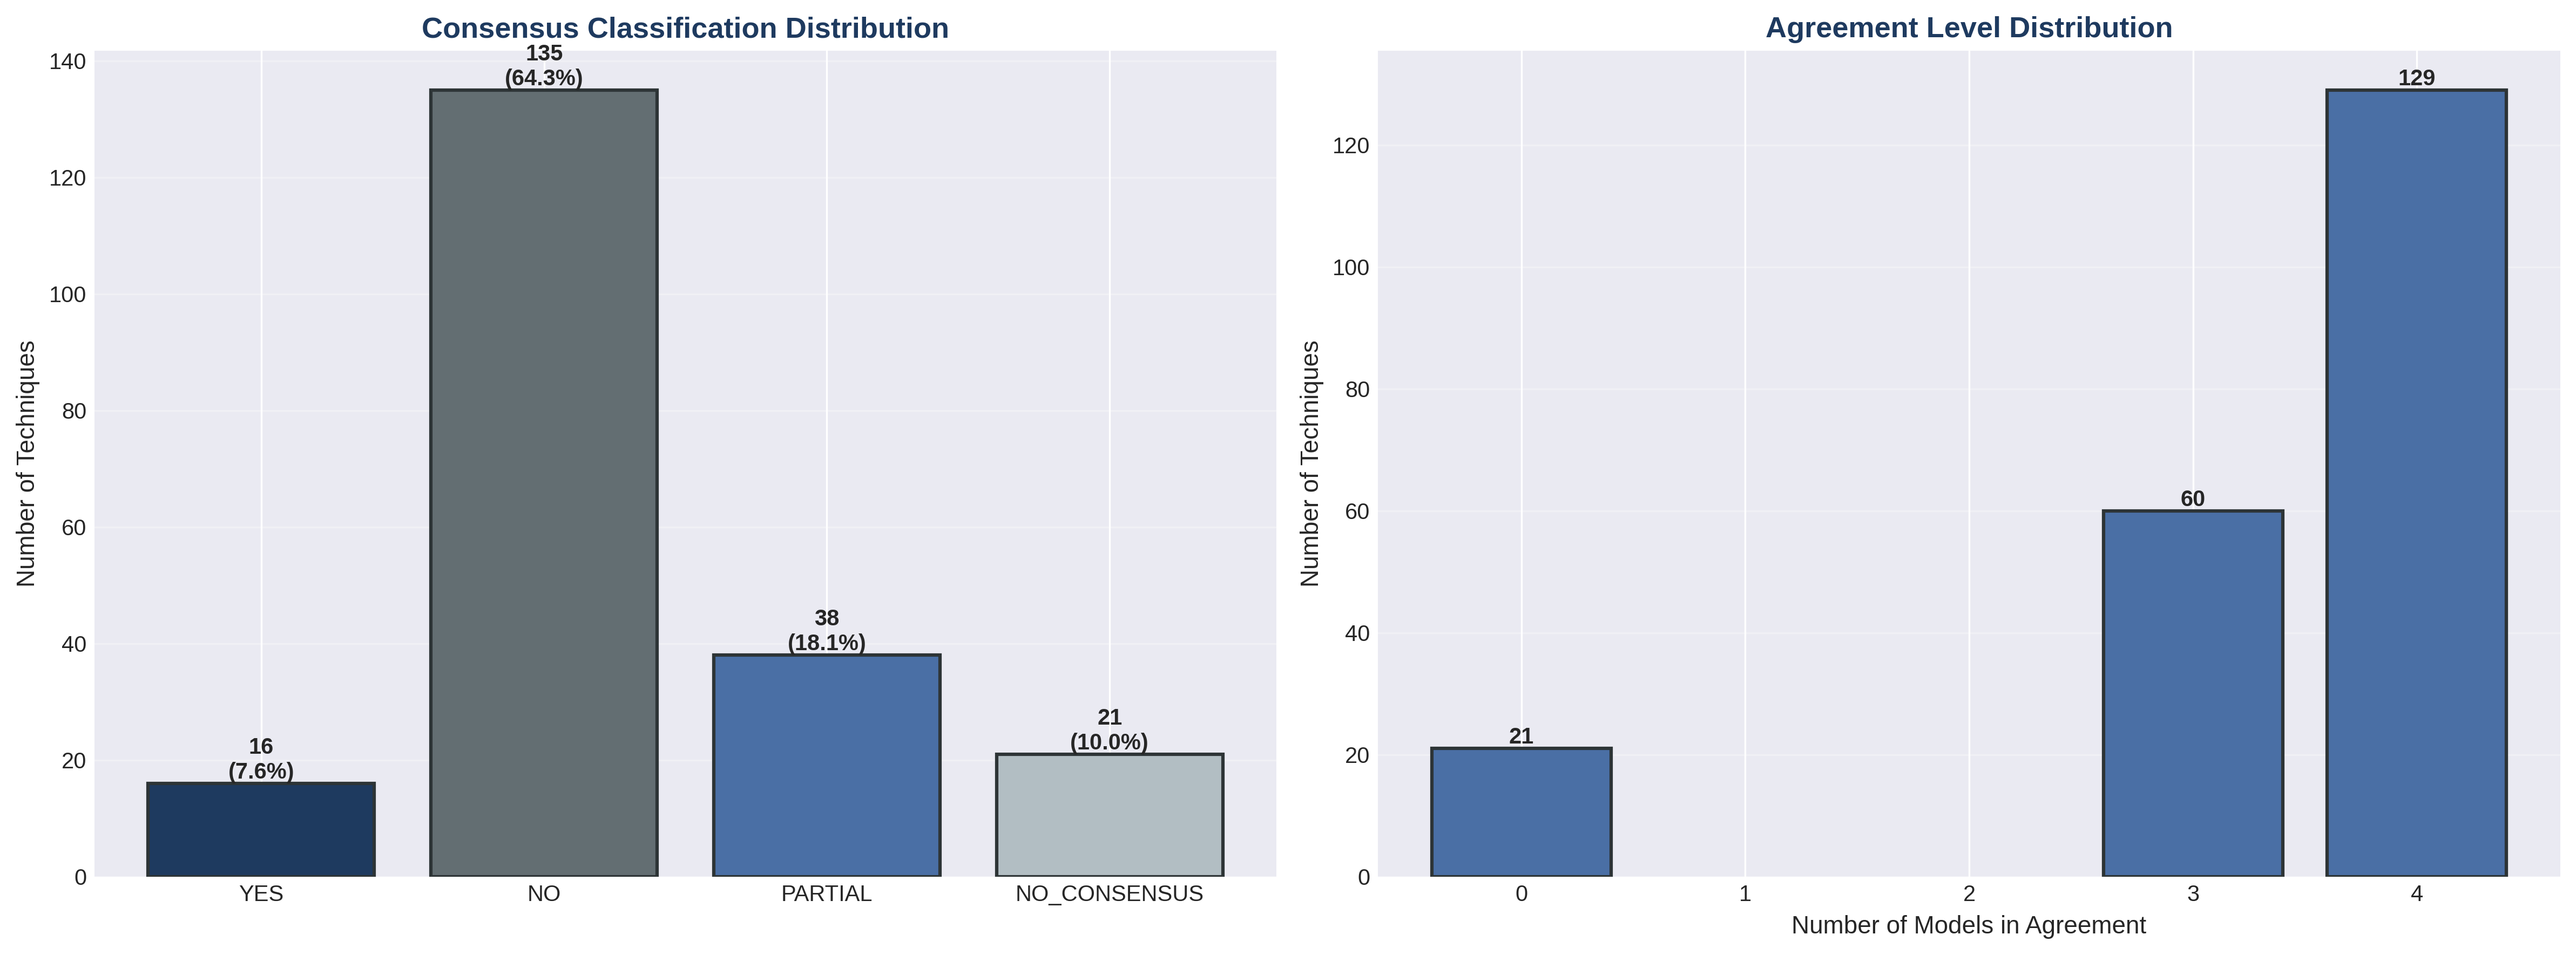
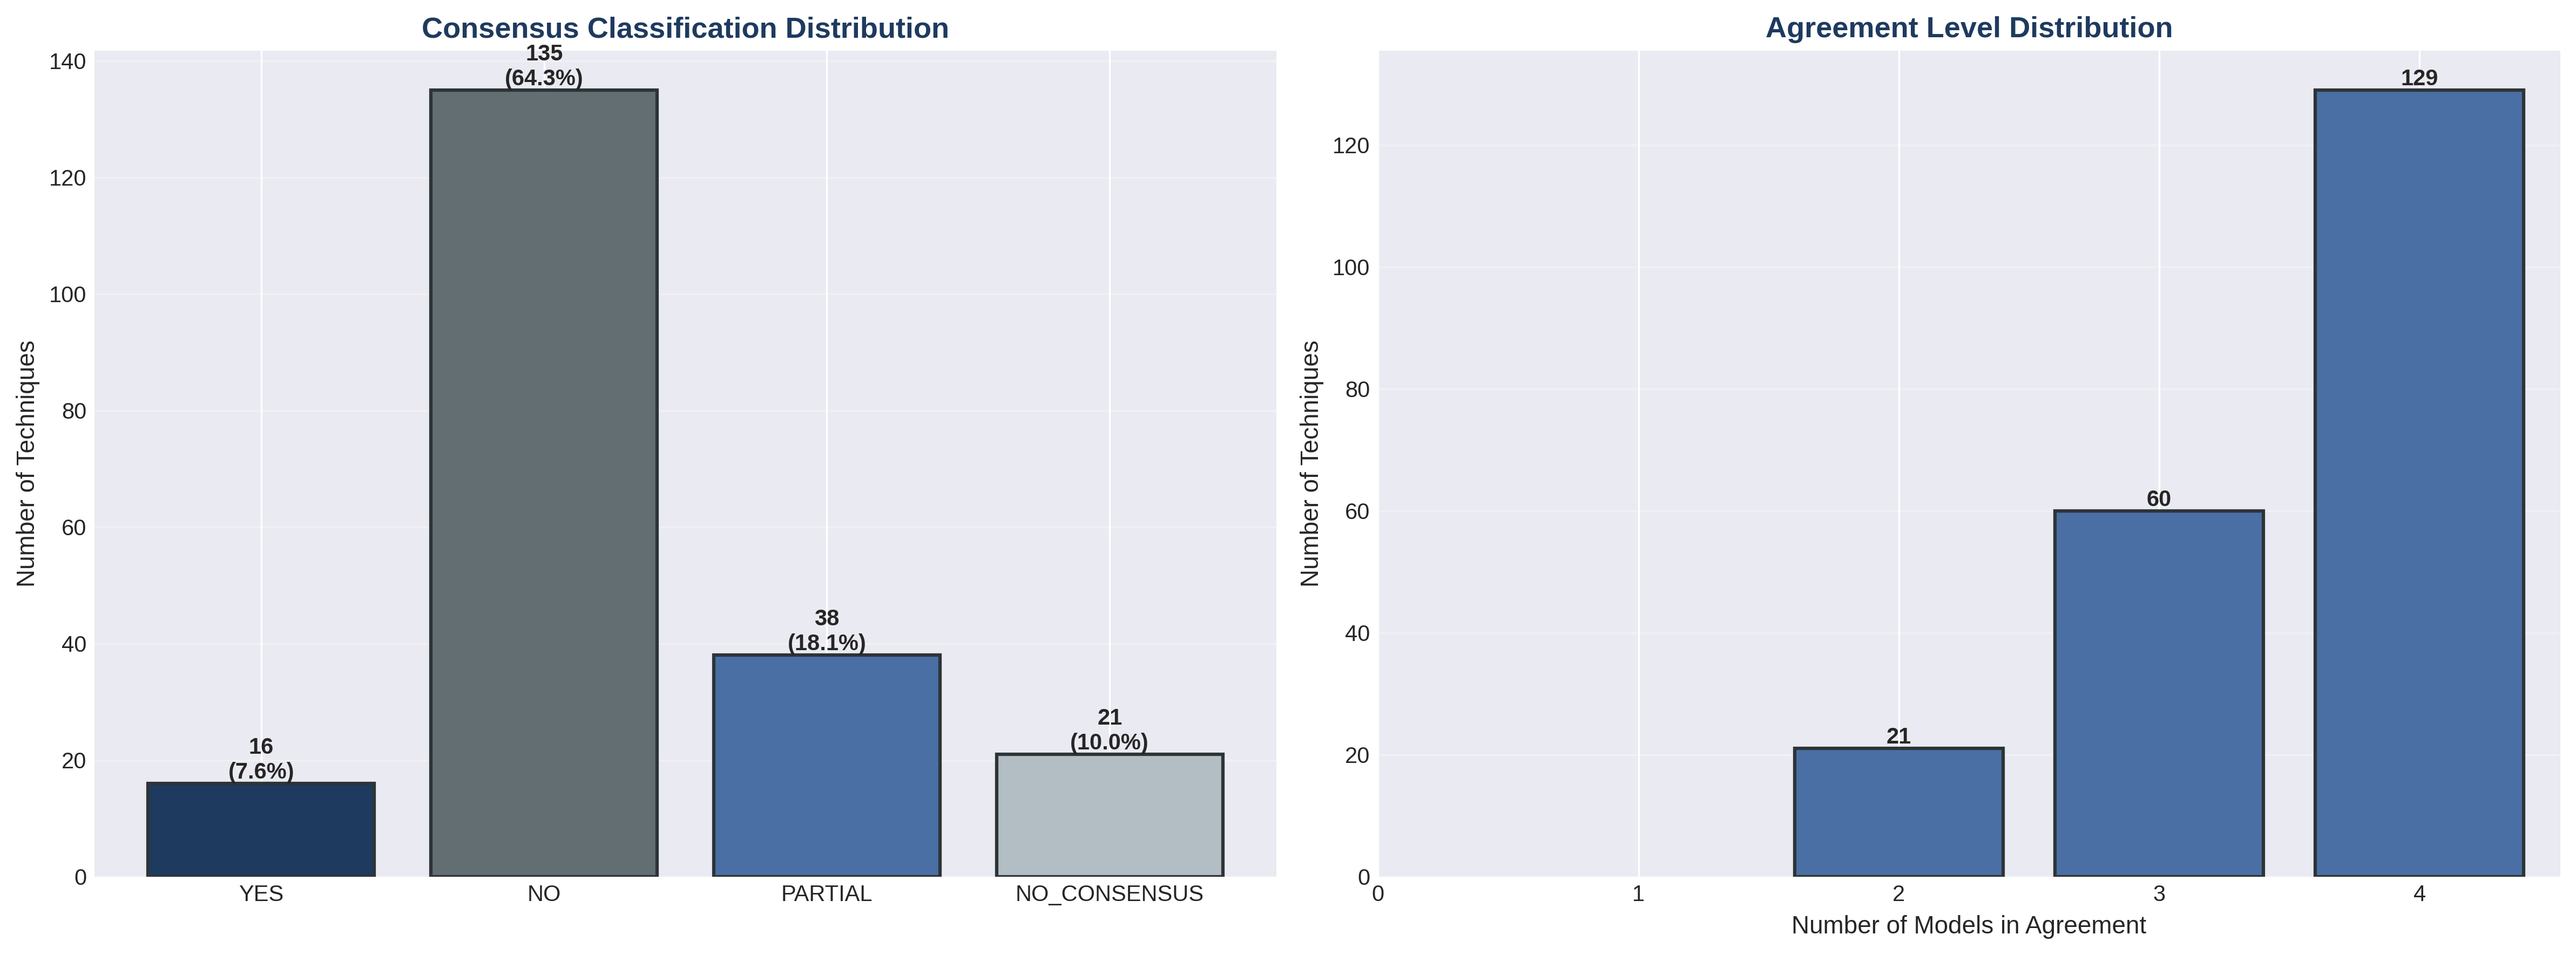
Add detailed 2-2 split analysis for contentious techniques
- Fixed consensus calculation to correctly count 2-2 splits (was showing 0%, now correctly shows 10.0%)
- Added analyze_2_2_splits_detailed() function for in-depth analysis of disagreement cases
- Generated 3 new outputs:
  * 06_2-2_split_analysis.png: Split types and model pair agreement patterns
  * 07_2-2_split_details.png: Color-coded table of all 21 split techniques
  * 2-2_split_techniques.csv: Complete dataset of split cases with patterns

Key findings on 21 contentious techniques (10% of dataset):
- PARTIAL vs YES (9 techniques): Context-dependent detectability
- NO vs PARTIAL (9 techniques): Implementation-dependent visibility
- Mixed splits (3 techniques): Complex scenarios with 3-way disagreement

Updated README with detailed insights on 2-2 split patterns and their implications for NIDS deployment decisions.

diff --git a/llm_nids_analysis/analyze_llm_classifications.py b/llm_nids_analysis/analyze_llm_classifications.py
@@ -132,7 +132,8 @@ def calculate_consensus(row, models):
     if most_common[1] >= 3:  # At least 3 models agree
         return most_common[0], most_common[1]
     else:
-        return 'NO_CONSENSUS', 0
+        # No consensus - return the max agreement count (usually 2 for 2-2 splits)
+        return 'NO_CONSENSUS', most_common[1]
 
 def analyze_consensus(df, models, output_dir):
     """Analyze consensus among models using 3/4 majority rule"""
@@ -239,6 +240,173 @@ def analyze_disagreement_patterns(df, models, consensus_df, output_dir):
         plt.savefig(f'{output_dir}/04_disagreement_patterns.png', dpi=300, bbox_inches='tight')
         print(f"✓ Saved: 04_disagreement_patterns.png")
         plt.close()
+
+def analyze_2_2_splits_detailed(df, models, consensus_df, output_dir):
+    """Detailed analysis of 2-2 split cases"""
+    # Find all NO_CONSENSUS cases
+    no_consensus = consensus_df[consensus_df['consensus'] == 'NO_CONSENSUS'].copy()
+
+    if len(no_consensus) == 0:
+        return
+
+    # Analyze split patterns
+    split_data = []
+    for idx, row in no_consensus.iterrows():
+        classifications = {
+            'Claude': row['claude'],
+            'Grok': row['grok'],
+            'GPT': row['gpt'],
+            'Gemini': row['gemini']
+        }
+        count = Counter(classifications.values())
+
+        # Determine split type
+        if len(count) == 2 and list(count.values()) == [2, 2]:
+            split_type = f"{list(count.keys())[0]} vs {list(count.keys())[1]}"
+        else:
+            split_type = "Mixed"
+
+        split_data.append({
+            'technique_id': row['technique_id'],
+            'name': row['name'],
+            'split_type': split_type,
+            'pattern': dict(count),
+            **classifications
+        })
+
+    split_df = pd.DataFrame(split_data)
+
+    # Save detailed CSV
+    split_df.to_csv(f'{output_dir}/2-2_split_techniques.csv', index=False)
+    print(f"✓ Saved: 2-2_split_techniques.csv")
+
+    # Create visualization
+    fig, (ax1, ax2) = plt.subplots(1, 2, figsize=(16, 8))
+
+    # Left plot: Split type distribution
+    split_type_counts = split_df['split_type'].value_counts()
+    colors_split = [COLORS['tertiary']] * len(split_type_counts)
+
+    bars1 = ax1.barh(range(len(split_type_counts)), split_type_counts.values,
+                     color=colors_split, edgecolor=COLORS['gray_dark'], linewidth=1.5)
+    ax1.set_yticks(range(len(split_type_counts)))
+    ax1.set_yticklabels(split_type_counts.index, fontsize=10)
+
+    for i, bar in enumerate(bars1):
+        width = bar.get_width()
+        ax1.text(width, bar.get_y() + bar.get_height()/2.,
+                f' {int(width)}', ha='left', va='center',
+                fontsize=10, fontweight='bold')
+
+    ax1.set_title('2-2 Split Types', fontsize=13, fontweight='bold', color=COLORS['primary'])
+    ax1.set_xlabel('Number of Techniques', fontsize=11)
+    ax1.grid(axis='x', alpha=0.3)
+
+    # Right plot: Model pair agreement in split cases
+    model_pairs = {
+        'Claude-Grok': 0,
+        'Claude-GPT': 0,
+        'Claude-Gemini': 0,
+        'Grok-GPT': 0,
+        'Grok-Gemini': 0,
+        'GPT-Gemini': 0
+    }
+
+    for idx, row in split_df.iterrows():
+        if row['Claude'] == row['Grok']:
+            model_pairs['Claude-Grok'] += 1
+        if row['Claude'] == row['GPT']:
+            model_pairs['Claude-GPT'] += 1
+        if row['Claude'] == row['Gemini']:
+            model_pairs['Claude-Gemini'] += 1
+        if row['Grok'] == row['GPT']:
+            model_pairs['Grok-GPT'] += 1
+        if row['Grok'] == row['Gemini']:
+            model_pairs['Grok-Gemini'] += 1
+        if row['GPT'] == row['Gemini']:
+            model_pairs['GPT-Gemini'] += 1
+
+    pairs = list(model_pairs.keys())
+    counts = list(model_pairs.values())
+
+    bars2 = ax2.bar(range(len(pairs)), counts, color=COLORS['secondary'],
+                    edgecolor=COLORS['gray_dark'], linewidth=1.5)
+    ax2.set_xticks(range(len(pairs)))
+    ax2.set_xticklabels(pairs, rotation=45, ha='right')
+
+    for bar in bars2:
+        height = bar.get_height()
+        ax2.text(bar.get_x() + bar.get_width()/2., height,
+                f'{int(height)}', ha='center', va='bottom',
+                fontsize=10, fontweight='bold')
+
+    ax2.set_title('Model Pair Agreements in Split Cases', fontsize=13,
+                 fontweight='bold', color=COLORS['primary'])
+    ax2.set_ylabel('Agreement Count', fontsize=11)
+    ax2.grid(axis='y', alpha=0.3)
+
+    plt.tight_layout()
+    plt.savefig(f'{output_dir}/06_2-2_split_analysis.png', dpi=300, bbox_inches='tight')
+    print(f"✓ Saved: 06_2-2_split_analysis.png")
+    plt.close()
+
+    # Create a detailed table visualization
+    fig, ax = plt.subplots(figsize=(16, max(10, len(split_df) * 0.4)))
+
+    # Prepare data for table
+    table_data = []
+    for idx, row in split_df.head(20).iterrows():  # Show top 20
+        table_data.append([
+            row['technique_id'],
+            row['name'][:30] + '...' if len(row['name']) > 30 else row['name'],
+            row['Claude'],
+            row['Grok'],
+            row['GPT'],
+            row['Gemini']
+        ])
+
+    # Create table
+    table = ax.table(cellText=table_data,
+                    colLabels=['Technique ID', 'Name', 'Claude', 'Grok', 'GPT', 'Gemini'],
+                    cellLoc='left',
+                    loc='center',
+                    colWidths=[0.12, 0.35, 0.13, 0.13, 0.13, 0.14])
+
+    table.auto_set_font_size(False)
+    table.set_fontsize(9)
+    table.scale(1, 2)
+
+    # Color code the cells
+    for i in range(len(table_data)):
+        for j in range(2, 6):  # Model columns
+            cell = table[(i+1, j)]
+            value = table_data[i][j]
+            if value == 'YES':
+                cell.set_facecolor(COLORS['yes'])
+                cell.set_text_props(color='white', weight='bold')
+            elif value == 'NO':
+                cell.set_facecolor(COLORS['no'])
+                cell.set_text_props(color='white', weight='bold')
+            elif value == 'PARTIAL':
+                cell.set_facecolor(COLORS['partial'])
+                cell.set_text_props(color='white', weight='bold')
+
+    # Header styling
+    for j in range(6):
+        cell = table[(0, j)]
+        cell.set_facecolor(COLORS['primary'])
+        cell.set_text_props(color='white', weight='bold')
+
+    ax.axis('off')
+    ax.set_title(f'2-2 Split Techniques Detail (Showing {min(20, len(split_df))} of {len(split_df)})',
+                fontsize=14, fontweight='bold', color=COLORS['primary'], pad=20)
+
+    plt.tight_layout()
+    plt.savefig(f'{output_dir}/07_2-2_split_details.png', dpi=300, bbox_inches='tight')
+    print(f"✓ Saved: 07_2-2_split_details.png")
+    plt.close()
+
+    return split_df
 
 def analyze_by_tactic(df, models, consensus_df, output_dir):
     """Analyze consensus by MITRE ATT&CK tactic"""
@@ -463,6 +631,7 @@ def main():
     agreement_matrix = analyze_model_agreement(df, models, output_dir)
     consensus_df = analyze_consensus(df, models, output_dir)
     analyze_disagreement_patterns(df, models, consensus_df, output_dir)
+    analyze_2_2_splits_detailed(df, models, consensus_df, output_dir)
     analyze_by_tactic(df, models, consensus_df, output_dir)
     create_overview_visualization(df, models, consensus_df, stats, output_dir)
     generate_summary_stats(df, models, consensus_df, stats, output_dir)
@@ -478,7 +647,10 @@ def main():
     print("  • 03_consensus_analysis.png - Consensus results and agreement levels")
     print("  • 04_disagreement_patterns.png - Analysis of model disagreements")
     print("  • 05_consensus_by_tactic.png - Consensus breakdown by MITRE tactic")
+    print("  • 06_2-2_split_analysis.png - 2-2 split types and model pair agreements")
+    print("  • 07_2-2_split_details.png - Detailed table of 2-2 split techniques")
     print("  • consensus_classifications.csv - Full consensus results dataset")
+    print("  • 2-2_split_techniques.csv - Detailed data on 2-2 split cases")
     print("  • summary_report.txt - Detailed statistical summary")
     print()
 

diff --git a/llm_nids_analysis/README.md b/llm_nids_analysis/README.md
@@ -32,11 +32,15 @@ Four Large Language Models (Claude, Grok, GPT, and Gemini) were asked to evaluat
 2. **01_per_model_distribution.png** - Individual model classification breakdowns
 3. **02_model_agreement_matrix.png** - Heatmap of inter-model agreement rates
 4. **03_consensus_analysis.png** - Consensus distribution and agreement levels
-5. **05_consensus_by_tactic.png** - Consensus breakdown by MITRE ATT&CK tactic
+5. **04_disagreement_patterns.png** - Analysis of model disagreement patterns
+6. **05_consensus_by_tactic.png** - Consensus breakdown by MITRE ATT&CK tactic
+7. **06_2-2_split_analysis.png** - 2-2 split types and model pair agreements
+8. **07_2-2_split_details.png** - Detailed table of techniques with 2-2 splits
 
 ### Data Files
 
 - **consensus_classifications.csv** - Complete dataset with consensus results for each technique
+- **2-2_split_techniques.csv** - Detailed data on the 21 techniques with 2-2 splits
 - **summary_report.txt** - Detailed statistical summary report
 
 ## Analysis Script
@@ -72,6 +76,13 @@ This matches the aesthetic of previous MITRE bank paper visualizations.
 3. **Model Variation**: Gemini tends to be more optimistic about detectability (25.7% YES), while Grok is more conservative (71.9% NO). Claude and GPT fall in the middle.
 
 4. **Network-Based Techniques**: About 1/4 (25.7%) of techniques produce detectable or conditionally detectable network artifacts (primarily C2 communications, file transfers, and web protocols).
+
+5. **2-2 Splits (Contentious Techniques)**: 21 techniques (10.0%) had no consensus due to 2-2 splits. Common patterns include:
+   - **PARTIAL vs YES** (9 techniques): Techniques like Ingress Tool Transfer, Remote System Discovery, Web Shell
+   - **NO vs PARTIAL** (9 techniques): Techniques like Msiexec, CMSTP, Browser Session Hijacking
+   - **Other splits** (3 techniques): Including NO vs YES and mixed 3-way splits
+
+   These splits often occur when detectability depends heavily on implementation details or context. For example, "Ingress Tool Transfer" may be detectable (YES) if unencrypted but harder to detect (PARTIAL) when using encrypted channels.
 
 ## Applications
 
